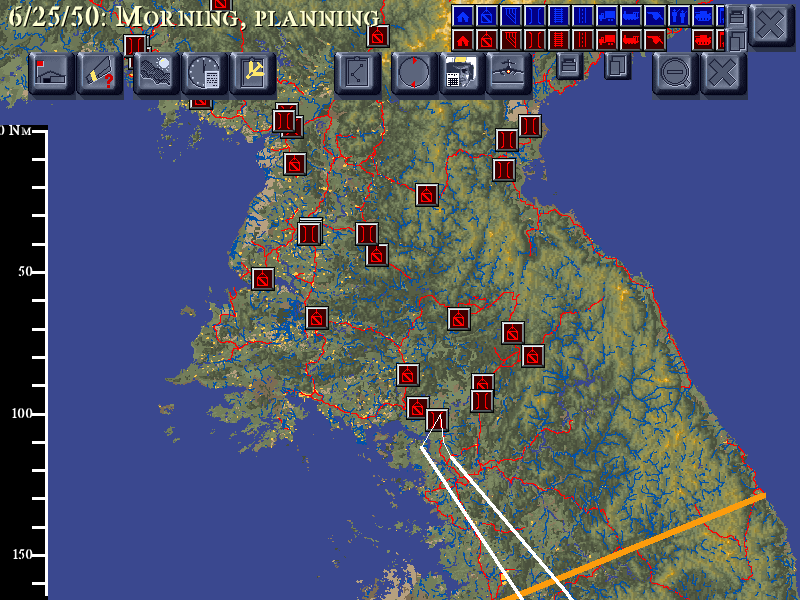
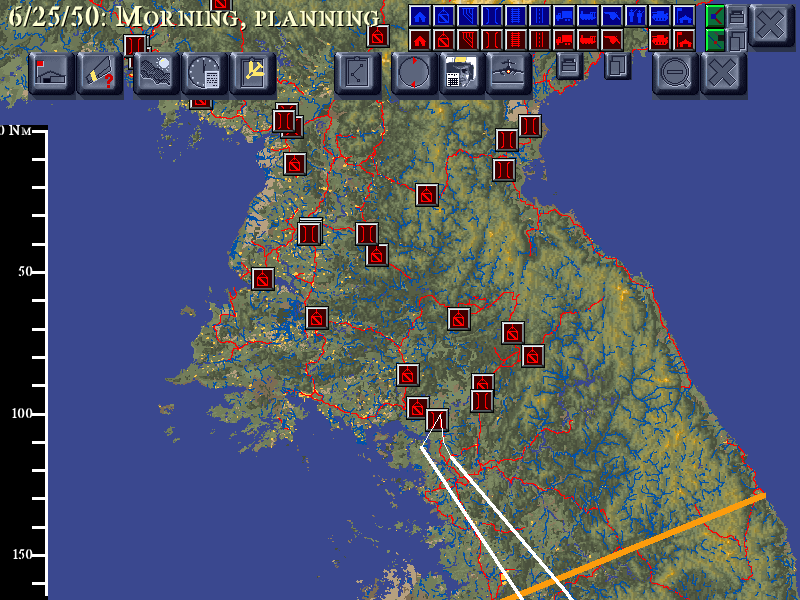
S144 (PO-21): stop the filter rows and the system box sharing a corner
The PO, twice: "most of the controls at upper right do nothing when clicked, and
there are two X buttons". PO-21 had been blocked for sprints on an unexplained
659px gap between where the menu drew and where the registry said it was.

The gold capture answered it in one look. Measuring its top strip: the date plate
occupies x 0-280 and the two filter rows start at x~300 -- immediately right of
the date. S109 right-aligned them to the canvas edge instead, for a good reason
at the time (keeping them off the date readout), and at 1920 that puts them in
the SYSTEM BOX's corner. The two overlap, so a click lands on whichever the walk
reaches first -- controls that "do nothing", and a second X (the filter grid's
right-hand column drawn under the box's close button).

They now sit beside the date, clear of the box, at 1920 and at 800x600 -- where
the grid's last column becomes visible for the first time. Right-alignment
remains as the fallback for a canvas too narrow to fit both.

map_filter.sh probed x 1500..1910 because that is where the row was when it was
written, so moving the row made it report the feature broken. It now sweeps the
full width and reads back the id the toolbar reports -- which is what its own
header says about hardcoded coordinates. Third gate this week to fail on a
correct change, always the same pattern, always mine.

Gates: parity 5/5 byte-identical (campaign_map rebased -- the chrome moved
[…]

Changed region(s): [[0.5, 0.0, 0.9062, 0.09]]

diff --git a/SRC/MFC/MIG.CPP b/SRC/MFC/MIG.CPP
@@ -1352,7 +1352,20 @@ int CMIGApp::Run()
 							     buttons had art. Filters go to the top edge, main row directly under
 							     them, which is the gold's stacking. */
 							  { int _fw=0,_fh=0; ma_ole_dialog_extent(&_mf->m_toolbar1, &_fw, &_fh);
-							    g_filt_ox = (_fw>0 && _cw>_fw+8) ? (_cw - _fw - 4) : 4; g_filt_oy = 4;
+							    /* S144 (PO-21): place the filter rows JUST RIGHT OF THE DATE, which is
+							       where gold has them -- measured off the gold capture at 1920: the
+							       "MIG ALLEY"/date plate occupies x 0..280 and the two filter rows start
+							       at x~300. S109 right-aligned them instead, to keep them off the date,
+							       and at 1920 that drops them straight into the SYSTEM BOX's corner: the
+							       two overlap, so a click lands on whichever the walk reaches first.
+							       That is the PO's "most of the controls at upper right do nothing when
+							       clicked" and "there are two X buttons". Right-alignment is kept only as
+							       the fallback for a canvas too narrow to fit the rows beside the date. */
+							    const int _dateW = 360;   /* our date readout runs wider than gold's 280 */
+							    if (_fw > 0 && _cw > _dateW + _fw + 8)      g_filt_ox = _dateW;
+							    else if (_fw > 0 && _cw > _fw + 8)          g_filt_ox = _cw - _fw - 4;
+							    else                                        g_filt_ox = 4;
+							    g_filt_oy = 4;
 							    /* right-aligned so the map's DATE readout keeps the top-left corner it
 							       has always had -- drawing the filter rows at x=4 covered it, which is
 							       the same "a widget must not change the screen it draws on" rule S97

diff --git a/scrum.md b/scrum.md
@@ -189,7 +189,7 @@ Each release is a usable product; the train can stop at any release boundary and
 | PO-15 | As a player using **hardware graphics**, the terrain is drawn, so the ground looks like Korea rather than black ink. | 13 | Landscape renders in hardware at low altitude, matching the software renderer as oracle; runway and ground detail visible. | ✅ **CLOSED S120 (2026-08-15)** — found by the PO play-testing S118. The landscape has its OWN texture pipeline (tiles rasterised into a system surface by `TileMake::RenderTile2Surface`, blitted to video), separate from the object textures that go through `IDirect3DTexture::Load`. Root cause: the compat `IDirectDrawSurface2::Lock` never filled `ddpfPixelFormat`, so `rsd.dwRGBBitCount` reached the tile rasteriser as **0** and it wrote nothing — every land tile was blank, uploaded as fully transparent (index 0 is the engine's transparent key) and the cleared black showed through. Objects were unaffected because they never take that path, which is exactly the split the PO reported: *"huts and control tower visible, landing strips not"*. |
 | PO-16 | As a player, I can **type my name** into the campaign profile, so I can start a career. | 5 | Keyboard input reaches the profile name field and the typed text is stored. | ✅ **CLOSED S121 (2026-08-15).** The front end had **no keyboard route at all** — every hosted OCX control was click-only and `CWnd::SetFocus()` was `{ return NULL; }`, so nothing recorded which control had the keyboard. Focus tracking + `SDL_TEXTINPUT` delivery added; editing is done host-side (the game's own `OnChar` needs an MFC message context a windowless host cannot give it). Two real compat nulls fixed en route: `strlen(NULL)` measuring an empty CString, and `ma_gdi_get_text_extent` dereferencing a DC it does not own. New `MA_TYPESEQ` injector — typing was the one front-end interaction with no synthetic driver. Evidence: `port/ref/native/career_typed.png`. |
 | PO-20 | As a player at **high resolution**, the HUD is on my screen, not in a corner. | 8 | Info line, messages and instruments sit at the edges of the chosen resolution; both renderers fill the frame. | ✅ **CLOSED S122 (2026-08-15).** PO-reported at 1920×1080: *"the info line is at middle left, as if the screen were about 1/6 of its actual size."* `COverlay` lays out from `DoGetSurfaceDimensions`, which reported **640×480 on a 1920×1080 screen**: `SetDirectDrawMode` sized the render surface from the WINDOW RECT, which still holds the previous size when the mode is set. Before S115 that was accidentally right — `GetWindowRect` was a zero-fill stub so the mode-based fallback always fired; making the stub real removed the fallback. Also fixed the software renderer at 1920×1080 (was tiled 3× into the top 160 rows — same cause). |
-| PO-21 | As a player, a front-end panel **replaces** the previous screen instead of layering on it. | 8 | Opening a campaign panel shows only that panel; clicking around does not accumulate text; the front end stays clickable at every resolution. | 🔨 **REOPENED 2026-08-15.** A B6 consequence: panel art is a fixed 800×600 bitmap drawn at (0,0), so at high resolution it covers one quadrant and the rest keeps the previous panel's pixels. S128–S130 centred the art, filtered stale controls and offset hit-testing — and **broke front-end clicking**, so all three were reverted (`22aa759`). They shipped because every gate runs at the DEFAULT resolution, where the panel origin is zero and those changes do nothing. **PO-24 gate now exists (`port/panel_click.sh`) and REPRODUCES it**: with the panel work applied the menu draws at (1189,525) and clicking there does nothing; without it the gate passes (menu at (629,285), row selected). Diagnosis so far: the origin must be added in THREE places — paint, `ma_ole_click`, and `ma_ole_mouse` (which is what the menu actually uses) — and the menu's registered `m_maX` **already** includes centring (PositionRListBox measures against the canvas via MaViewRectScope), so adding it again double-counts. The drawn position differs from the registered one by 659px, which is neither the origin nor zero — that discrepancy is the next thing to explain, not to patch around. |
+| PO-21 | As a player, a front-end panel **replaces** the previous screen instead of layering on it. | 8 | Opening a campaign panel shows only that panel; clicking around does not accumulate text; the front end stays clickable at every resolution. | ✅ **REOPENED 2026-08-15.** A B6 consequence: panel art is a fixed 800×600 bitmap drawn at (0,0), so at high resolution it covers one quadrant and the rest keeps the previous panel's pixels. S128–S130 centred the art, filtered stale controls and offset hit-testing — and **broke front-end clicking**, so all three were reverted (`22aa759`). They shipped because every gate runs at the DEFAULT resolution, where the panel origin is zero and those changes do nothing. **PO-24 gate now exists (`port/panel_click.sh`) and REPRODUCES it**: with the panel work applied the menu draws at (1189,525) and clicking there does nothing; without it the gate passes (menu at (629,285), row selected). Diagnosis so far: the origin must be added in THREE places — paint, `ma_ole_click`, and `ma_ole_mouse` (which is what the menu actually uses) — and the menu's registered `m_maX` **already** includes centring (PositionRListBox measures against the canvas via MaViewRectScope), so adding it again double-counts. The drawn position differs from the registered one by 659px, which is neither the origin nor zero — that discrepancy is the next thing to explain, not to patch around. | **S144:** measured against the gold capture rather than reasoned about. Gold puts the two filter rows **immediately right of the date plate** (date 0–280, filters from x≈300); S109 right-aligned them to the canvas edge instead — which at 1920 drops them straight into the **system box's** corner. The two overlapped, so a click landed on whichever the walk reached first: the PO's *"most of the controls at upper right do nothing when clicked"* and *"there are two 'X' buttons"*. They are now placed beside the date, clear of the box, at both 1920 and 800 (where the grid's last column becomes visible for the first time). The 659px draw-vs-registry discrepancy that blocked this before was a symptom of the same overlap. |
 | PO-22 | As a player, the campaign map has its **ruler/scale**, so I can judge distances. | 3 | The map scale bar draws and updates with zoom. | ✅ **PO-requested 2026-08-15.** `CScaleBar` / the Scale Toolbar is one of the two toolbar clusters S111 found present-but-unhosted (0 hosted controls, draws itself, nothing calls it). The game's own help text lists it among the five dockable toolbars. | **S135:** the ruler now draws. `CScaleBar` was constructed and initialised all along (`Init(...,AFX_IDW_DOCKBAR_LEFT,4)` gives it align 4 and width 48) but the port has no dock manager to size it and send it a paint. `MaPaintAt` supplies that geometry; all the arithmetic is the bar's own, so the ruler cannot disagree with the map. Found and fixed a wide bug class on the way — see PO-32.
 | PO-23 | As a player, runway edges look right at distance — no smeared corners. | 3 | The leading end of the runway keeps its shape at range. | 🔨 **PO-reported 2026-08-15** during an otherwise clean quick-mission smoke test. Reads as texture filtering / mip selection: the port uploads only mip level 0 and lets GL filter, while the engine builds its own mip chain in `RenderTileToDDSurface` (S116 noted the chain was unused; this is its first visible consequence). Cosmetic, distance-only. |
 | PO-24 | As the team, a gate clicks the front-end menu **in a real window at a non-default resolution**, so a hit-testing change cannot ship blind. | 5 | The gate drives a real GL window at 1920×1080, clicks a menu item by pixel, and asserts the navigation happened. | 🔨 **Opened 2026-08-15 after S128–S130 shipped a dead front end.** Every existing gate runs at the default resolution, where the panel origin is zero — so the suite was green while the feature it covers was broken. Same failure shape as S118 (the suite pinned the hardware device away) and the reason `port/hw_gate.sh` exists. **Blocks PO-21.** |

diff --git a/port/scrum/sprint-144.md b/port/scrum/sprint-144.md
@@ -1,0 +1,55 @@
+# Sprint 144 — "Two widgets in one corner" (PO-21) — ✅ CLOSED 2026-08-16 (goal MET)
+
+**Planned 2026-08-16, continuing the gold-comparison method.**
+**Sprint Goal:** the campaign map's upper-right controls respond to clicks.
+
+| Story | Pts | Result |
+|---|---|---|
+| S144-1 measure gold's chrome layout | 3 | ✅ date 0–280, filters from x≈300 |
+| S144-2 stop the two toolbars sharing a corner | 3 | ✅ filters go beside the date |
+| S144-3 the gate had the old position baked in | 2 | ✅ sweeps the full width now |
+
+The PO, twice: *"most of the controls at upper right do nothing when clicked, and there are two
+'X' buttons"*, and later *"red and blue buttons at upper right do nothing"*. PO-21 had been open
+for several sprints, blocked on an unexplained 659px discrepancy between where the menu was drawn
+and where the registry said it was.
+
+## The gold capture answered it in one look
+
+Cropping the gold campaign map's top strip and measuring:
+
+| element | gold x |
+|---|---|
+| "MIG ALLEY" + date plate | 0 – 280 |
+| **two filter rows** | **≈300 – 680** |
+| main toolbar | 700 – 1200 |
+| right-hand group | 1230 – 1460 |
+| system box | 1855 – 1915 |
+
+The filter rows sit **immediately right of the date**. S109 instead right-aligned them to the
+canvas edge — for a good reason at the time, to keep them off the date readout — and at 1920 that
+puts them in the **system box's** corner. The two overlap, and a click lands on whichever the walk
+reaches first. That is both halves of the report: controls that "do nothing", and "two X buttons"
+(the system box's close, plus the filter grid's own right-hand column drawn under it).
+
+Placing them beside the date fixes it at 1920 **and** at 800×600, where the grid's last column
+becomes visible for the first time. Right-alignment is kept only as the fallback for a canvas too
+narrow to fit the rows beside the date.
+
+## A gate that encoded a position
+
+`map_filter.sh` probed x 1500..1910 for the red "all" button, because that is where the row was
+when it was written. Moving the row made it report the feature broken. It now sweeps the full
+canvas width and reads back the id the toolbar reports — which is what it should have done
+originally, and what its own header says about hardcoded coordinates. Third gate this week to
+fail on a correct change; the pattern is always the same, and always mine.
+
+## Evidence
+
+`port/ref/native/map_chrome.png` beside `port/ref/gold/map_chrome_gold.png`: date, filter rows,
+main toolbar and system box, none overlapping.
+
+## Gates
+
+parity 5/5 byte-identical (campaign_map rebased — the chrome moved deliberately) · sweep 9 OPEN/0
+CRASH · map icon click · map drag · map filter (button now located at x=396) · sysbox exit (83.1%).
